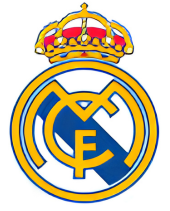
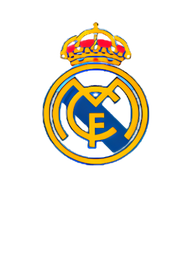
feat(board): transparent crest, raised to 58px in the scoreboard strip
Swaps real-madrid.png for an RGBA cutout (194x259, 80% of pixels at alpha 0)
and raises the img height 42 -> 58. Same path, so no code path changed beyond
the one number.

This fixes the white block: the previous file was 8-bit RGB with no alpha on a
solid #ffffff field, which rendered as a white rectangle on the navy strip.

Worth knowing before anyone tunes this further: the new canvas carries a lot of
baked-in transparent padding, and it is not centred. The opaque bbox is
(40,19)-(152,168) of 194x259 — 19px of clear space above the crest, 91px below.
So at height 58 the ELEMENT is 58 x 43.4px but the VISIBLE crest is only about
33 x 25px, sitting high in its own box. Net effect: despite 42 -> 58, the crest
reads slightly SMALLER than the old one did and is optically high against the
66px strip.

Left as-is deliberately rather than compensating in CSS. The clean fix is to
crop the transparent margin out of the asset, after which height 58 will render
a genuinely 58px crest with no code change. Cropping in CSS instead would mean
negative margins or a transform tuned to this exact canvas, which silently
breaks the next time the file is replaced.

Inline styles only, no className, no BOARD_CSS rule, no new hex. Strip wrapper,
cell() helper, globals.css, gating.ts and scoring.ts all untouched.

diff --git a/app/page.tsx b/app/page.tsx
@@ -1074,7 +1074,7 @@ export default function AnsarPage() {
           <img
             src="/real-madrid.png"
             alt="Real Madrid"
-            style={{ height: 42, width: "auto", display: "block", objectFit: "contain" }}
+            style={{ height: 58, width: "auto", display: "block", objectFit: "contain" }}
           />
         </div>
         {cell("Points today", <>{gate ? todayPts : "—"}{sub(` / ${DAILY_MAX}`)}{gate && dayScore.perfect && <span style={{ fontSize: 18, marginLeft: 5 }}>⭐</span>}</>)}
